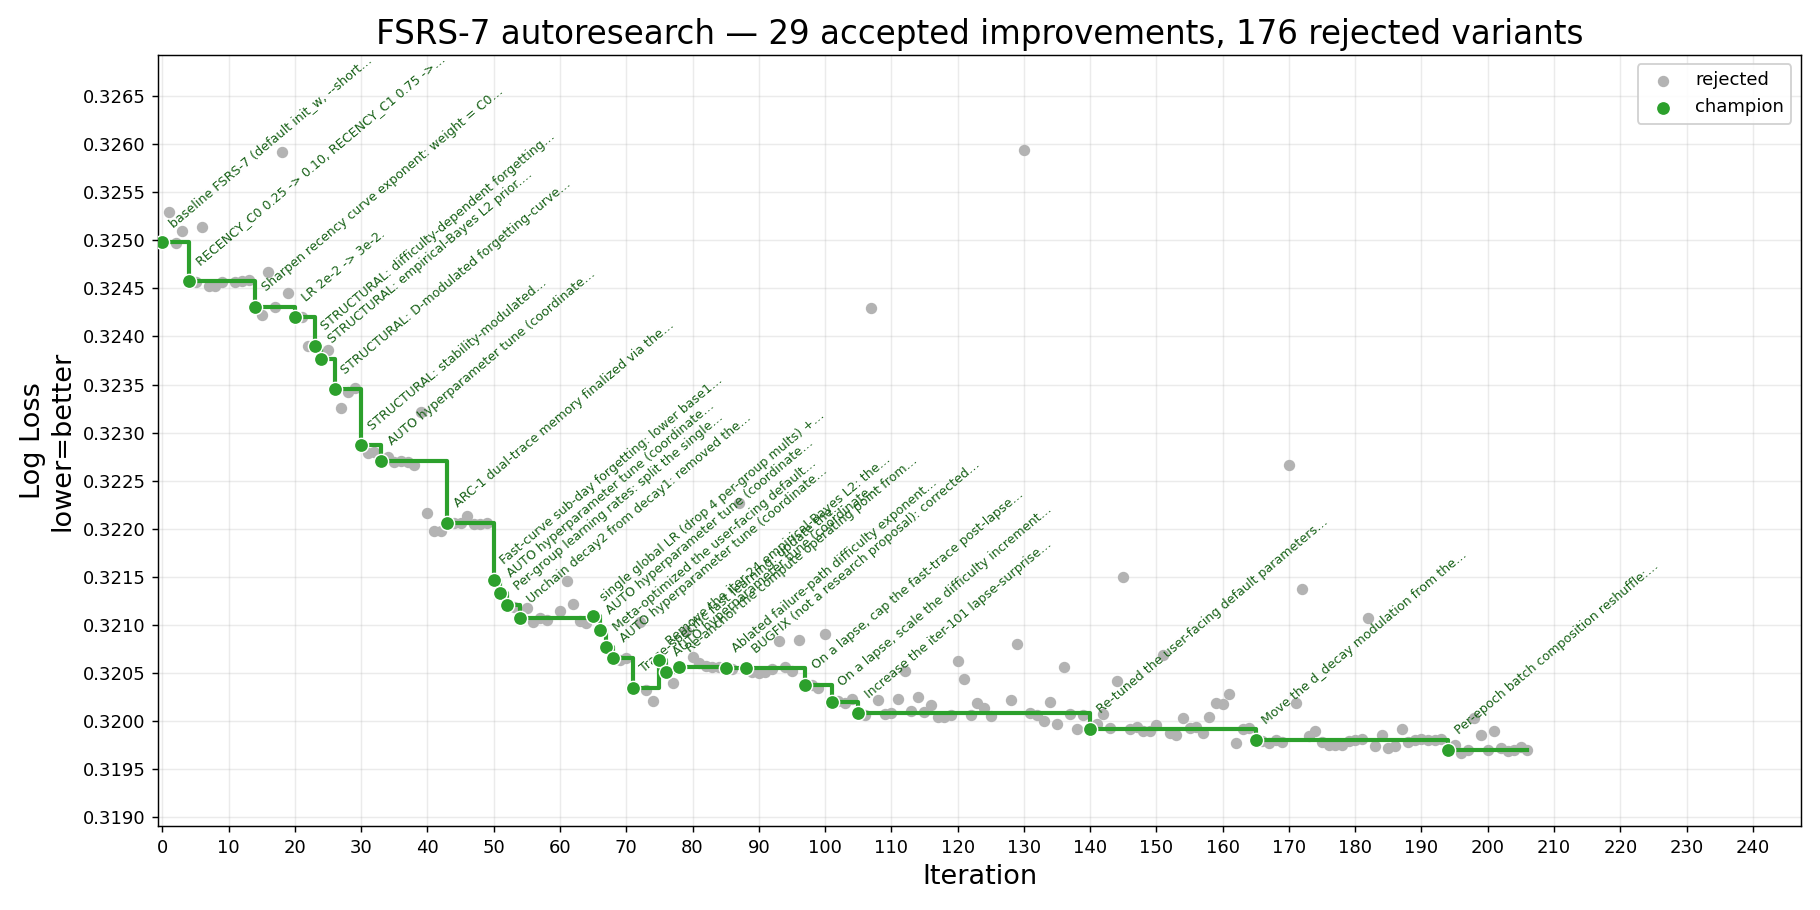
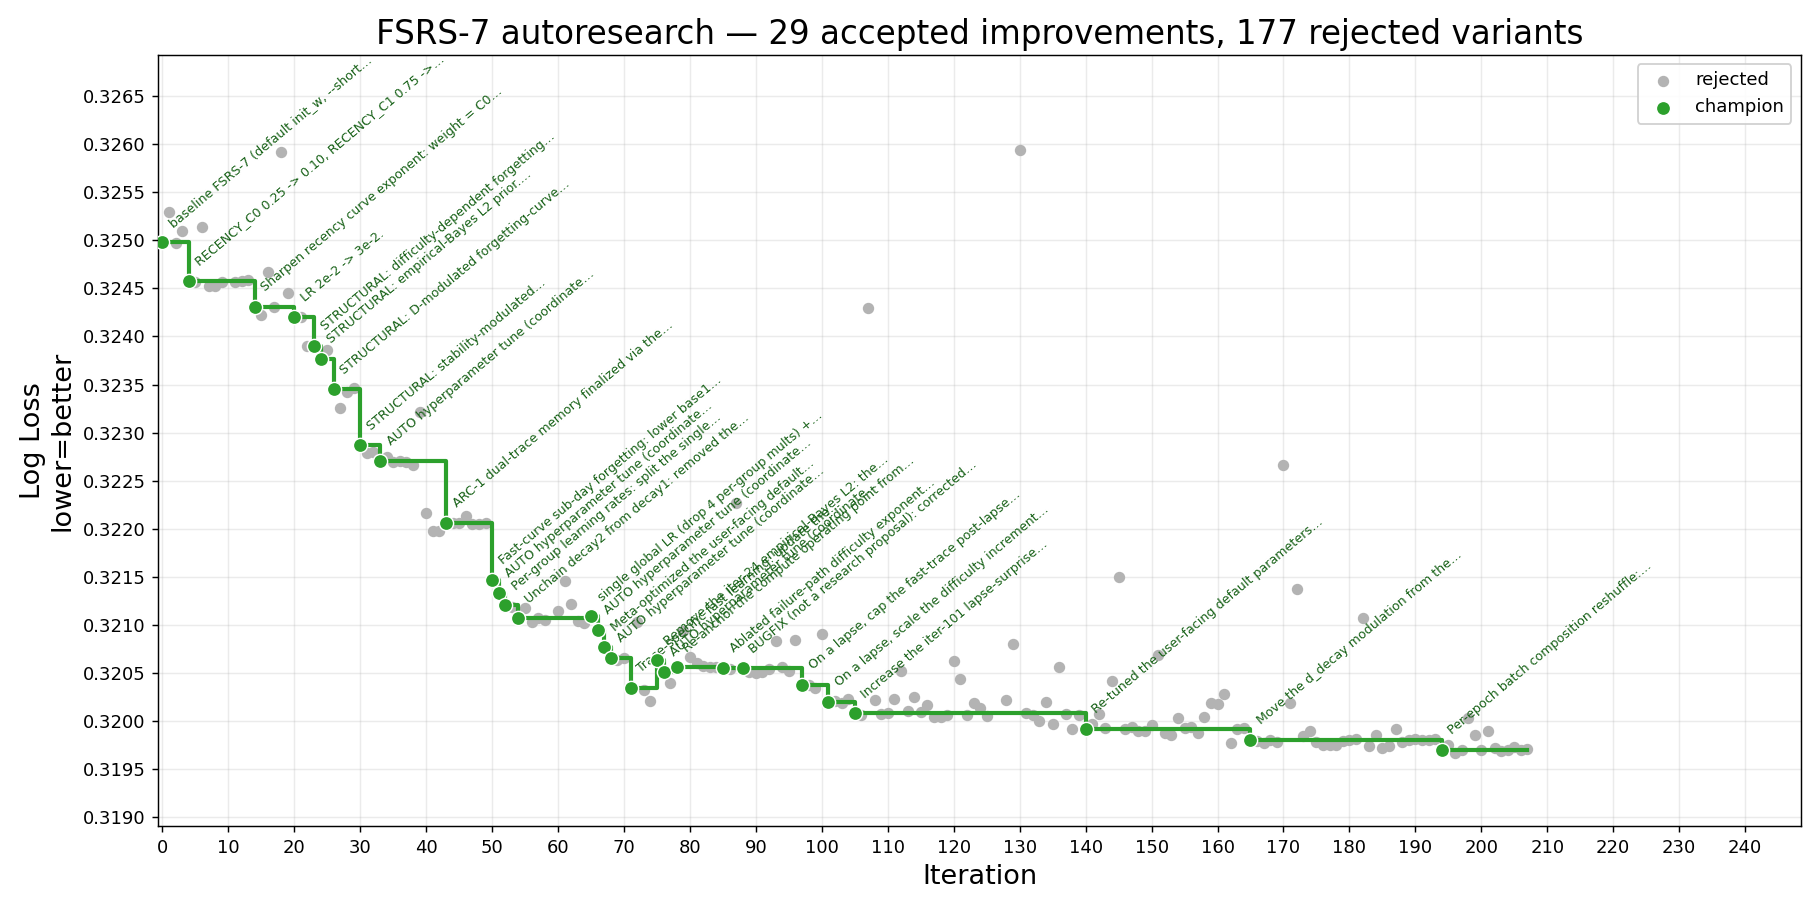
iter-207 rejected (-1.0e-5, bar 0.0000): w[17] default-pin ablation; no free parsimony in the short trace
Pinned short-trace sinc_r_mult at its population default (MIN=MAX=
DEFAULT, 34->33 trainable). Mean-of-3 bit-identical 0.31970882 vs
champion 0.31969851 -- genuinely worse. Even the most default-pinned
param (median at default to the 4th decimal, range_frac 0.129)
carries ~1e-5 of per-user signal; with iter-181 this prices the
short-trace block in both directions (adds AND removals cap at 1e-5).

diff --git a/result/history.md b/result/history.md
@@ -1,6 +1,6 @@
 # FSRS-7 autoresearch — iteration history
 
-_206 record(s). Generated from `history.jsonl` — do not edit by hand._
+_207 record(s). Generated from `history.jsonl` — do not edit by hand._
 
 | # | Time (UTC) | Thresh. | LL before | LL after | Δ LL | Cx before | Cx after | Δ Cx % | Status | Summary |
 |--:|---|---:|---:|---:|---:|---:|---:|---:|---|---|
@@ -210,3 +210,4 @@ _206 record(s). Generated from `history.jsonl` — do not edit by hand._
 | 204 | 2026-06-11T12:36:14 | 0.0002 | 0.31970 | 0.31970 | -0.00000 | 18,442 | 18,442 | +0.00% | rejected | Add trainable w[34] sinc_r_easy: on Easy reviews the growth R-coefficient becomes sinc_r_mult * sinc_r_easy, both traces. |
 | 205 | 2026-06-11T12:49:59 | 0.0002 | 0.31970 | 0.31972 | -0.00003 | 18,442 | 18,442 | +0.00% | rejected | Add trainable w[34] sinc_r_s_exp: long-trace growth R-coefficient becomes sinc_r_mult * s_long^sinc_r_s_exp (maturity-tilted spacing sensitivity). |
 | 206 | 2026-06-11T13:24:43 | 0.0001 | 0.31970 | 0.31970 | +0.00000 | 18,442 | 18,442 | +0.00% | rejected | AUTO hyperparameter tune (coordinate descent over training hyperparameters (LR/betas/L2/recency C0+EXP)): best candidate none. |
+| 207 | 2026-06-11T13:38:43 | 0.0000 | 0.31970 | 0.31971 | -0.00001 | 18,442 | 18,442 | +0.00% | rejected | Pure ablation: pin short-trace sinc_r_mult w[17] to its default 3.8668 (MIN=MAX=DEFAULT); 34->33 trainable params. |
